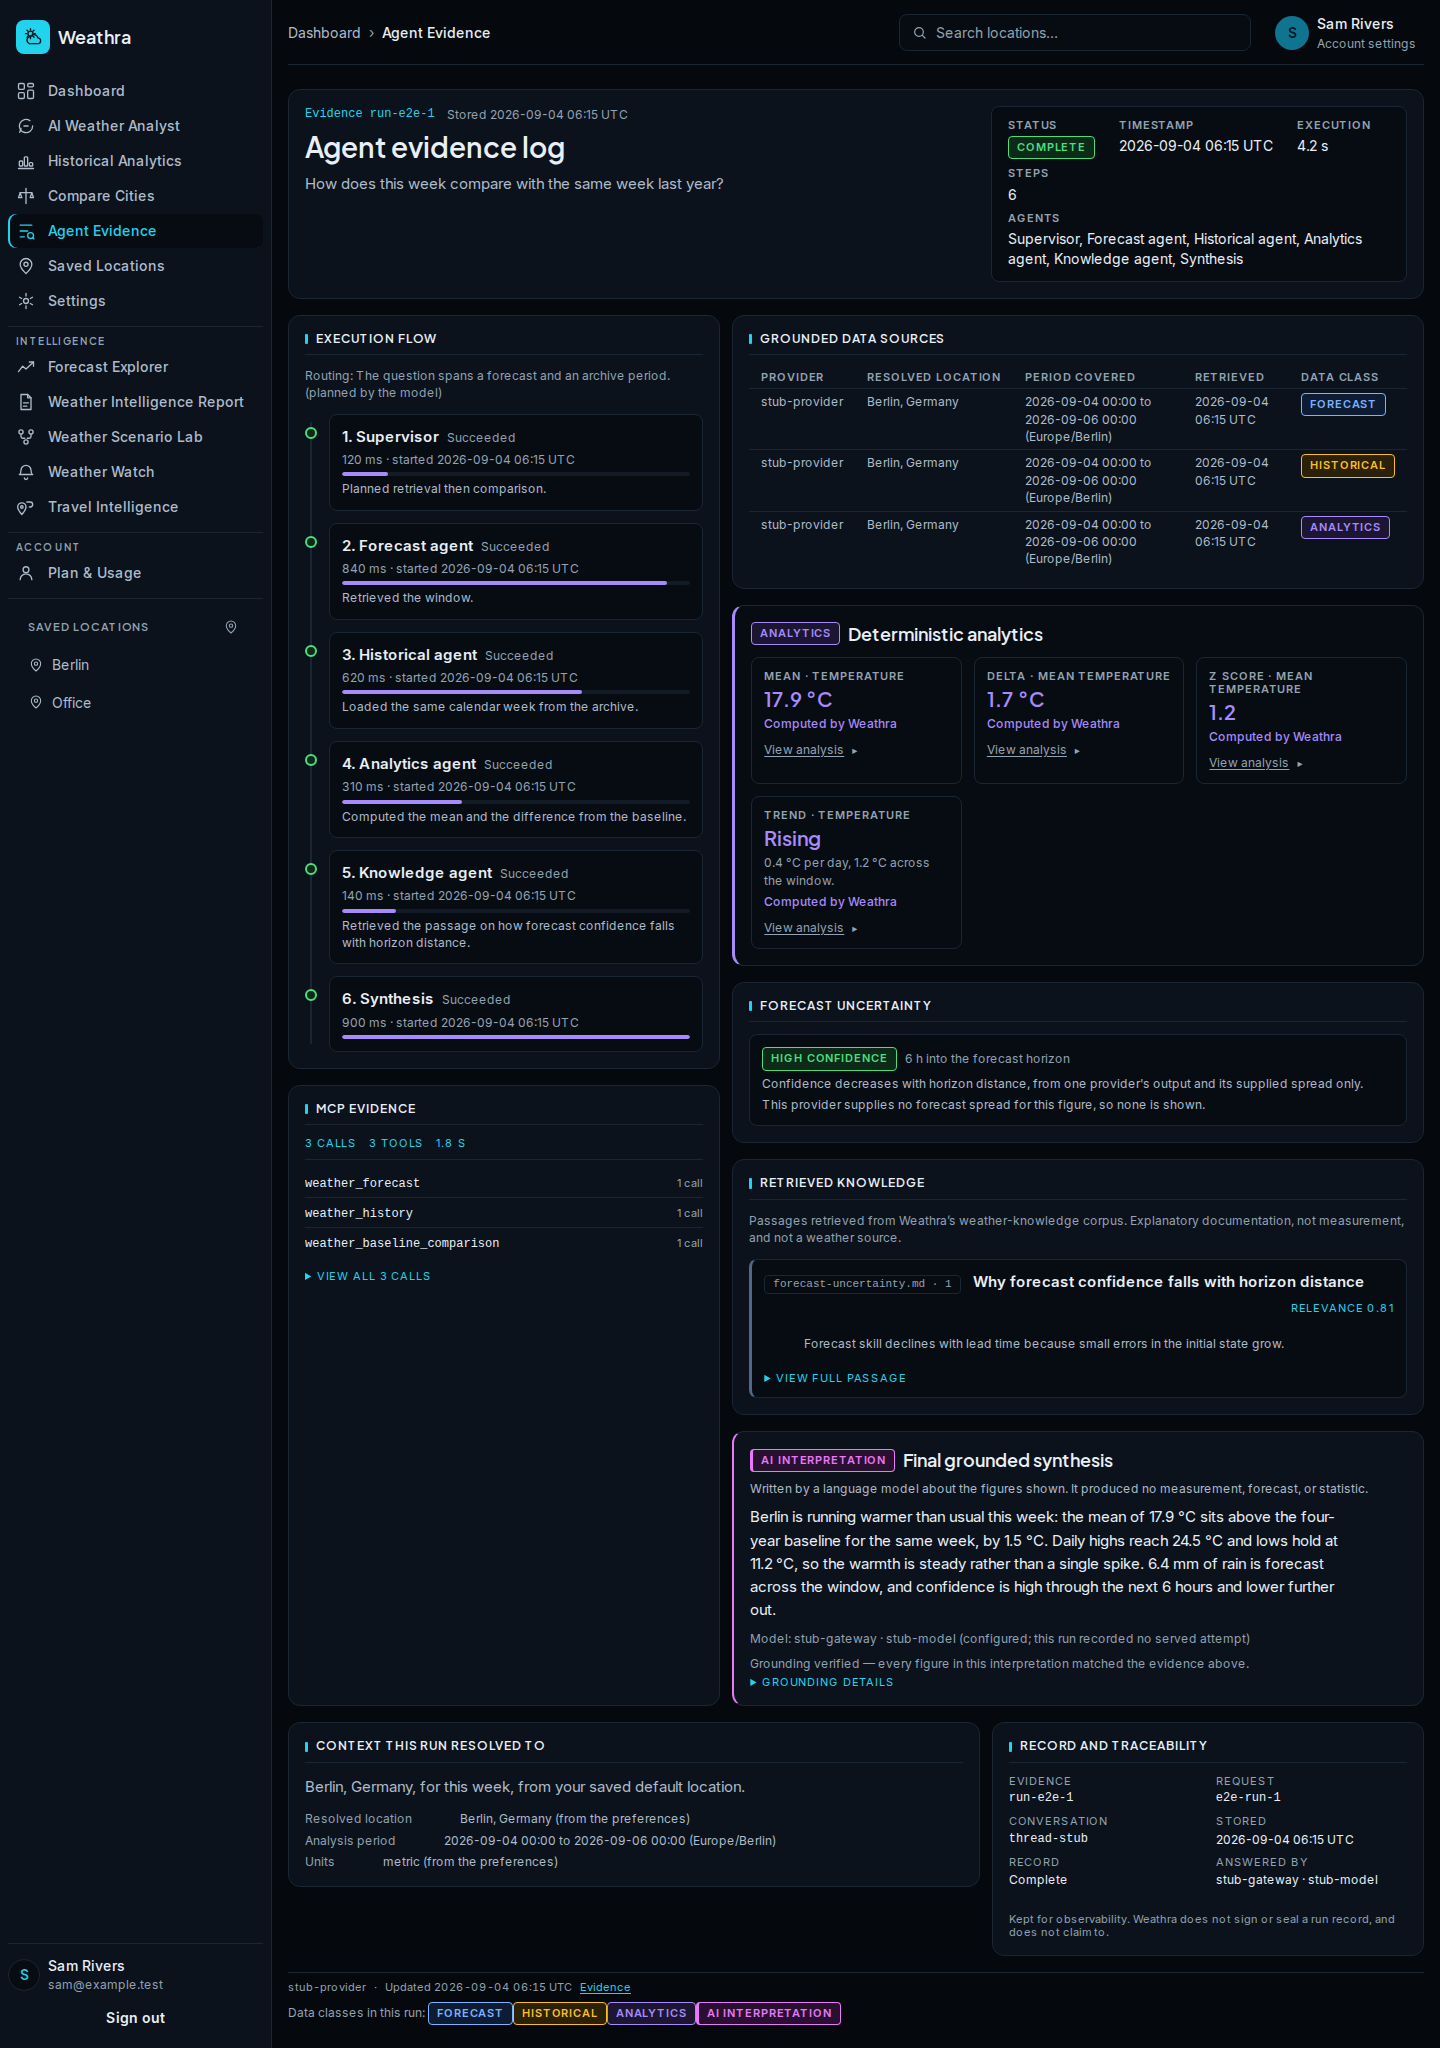
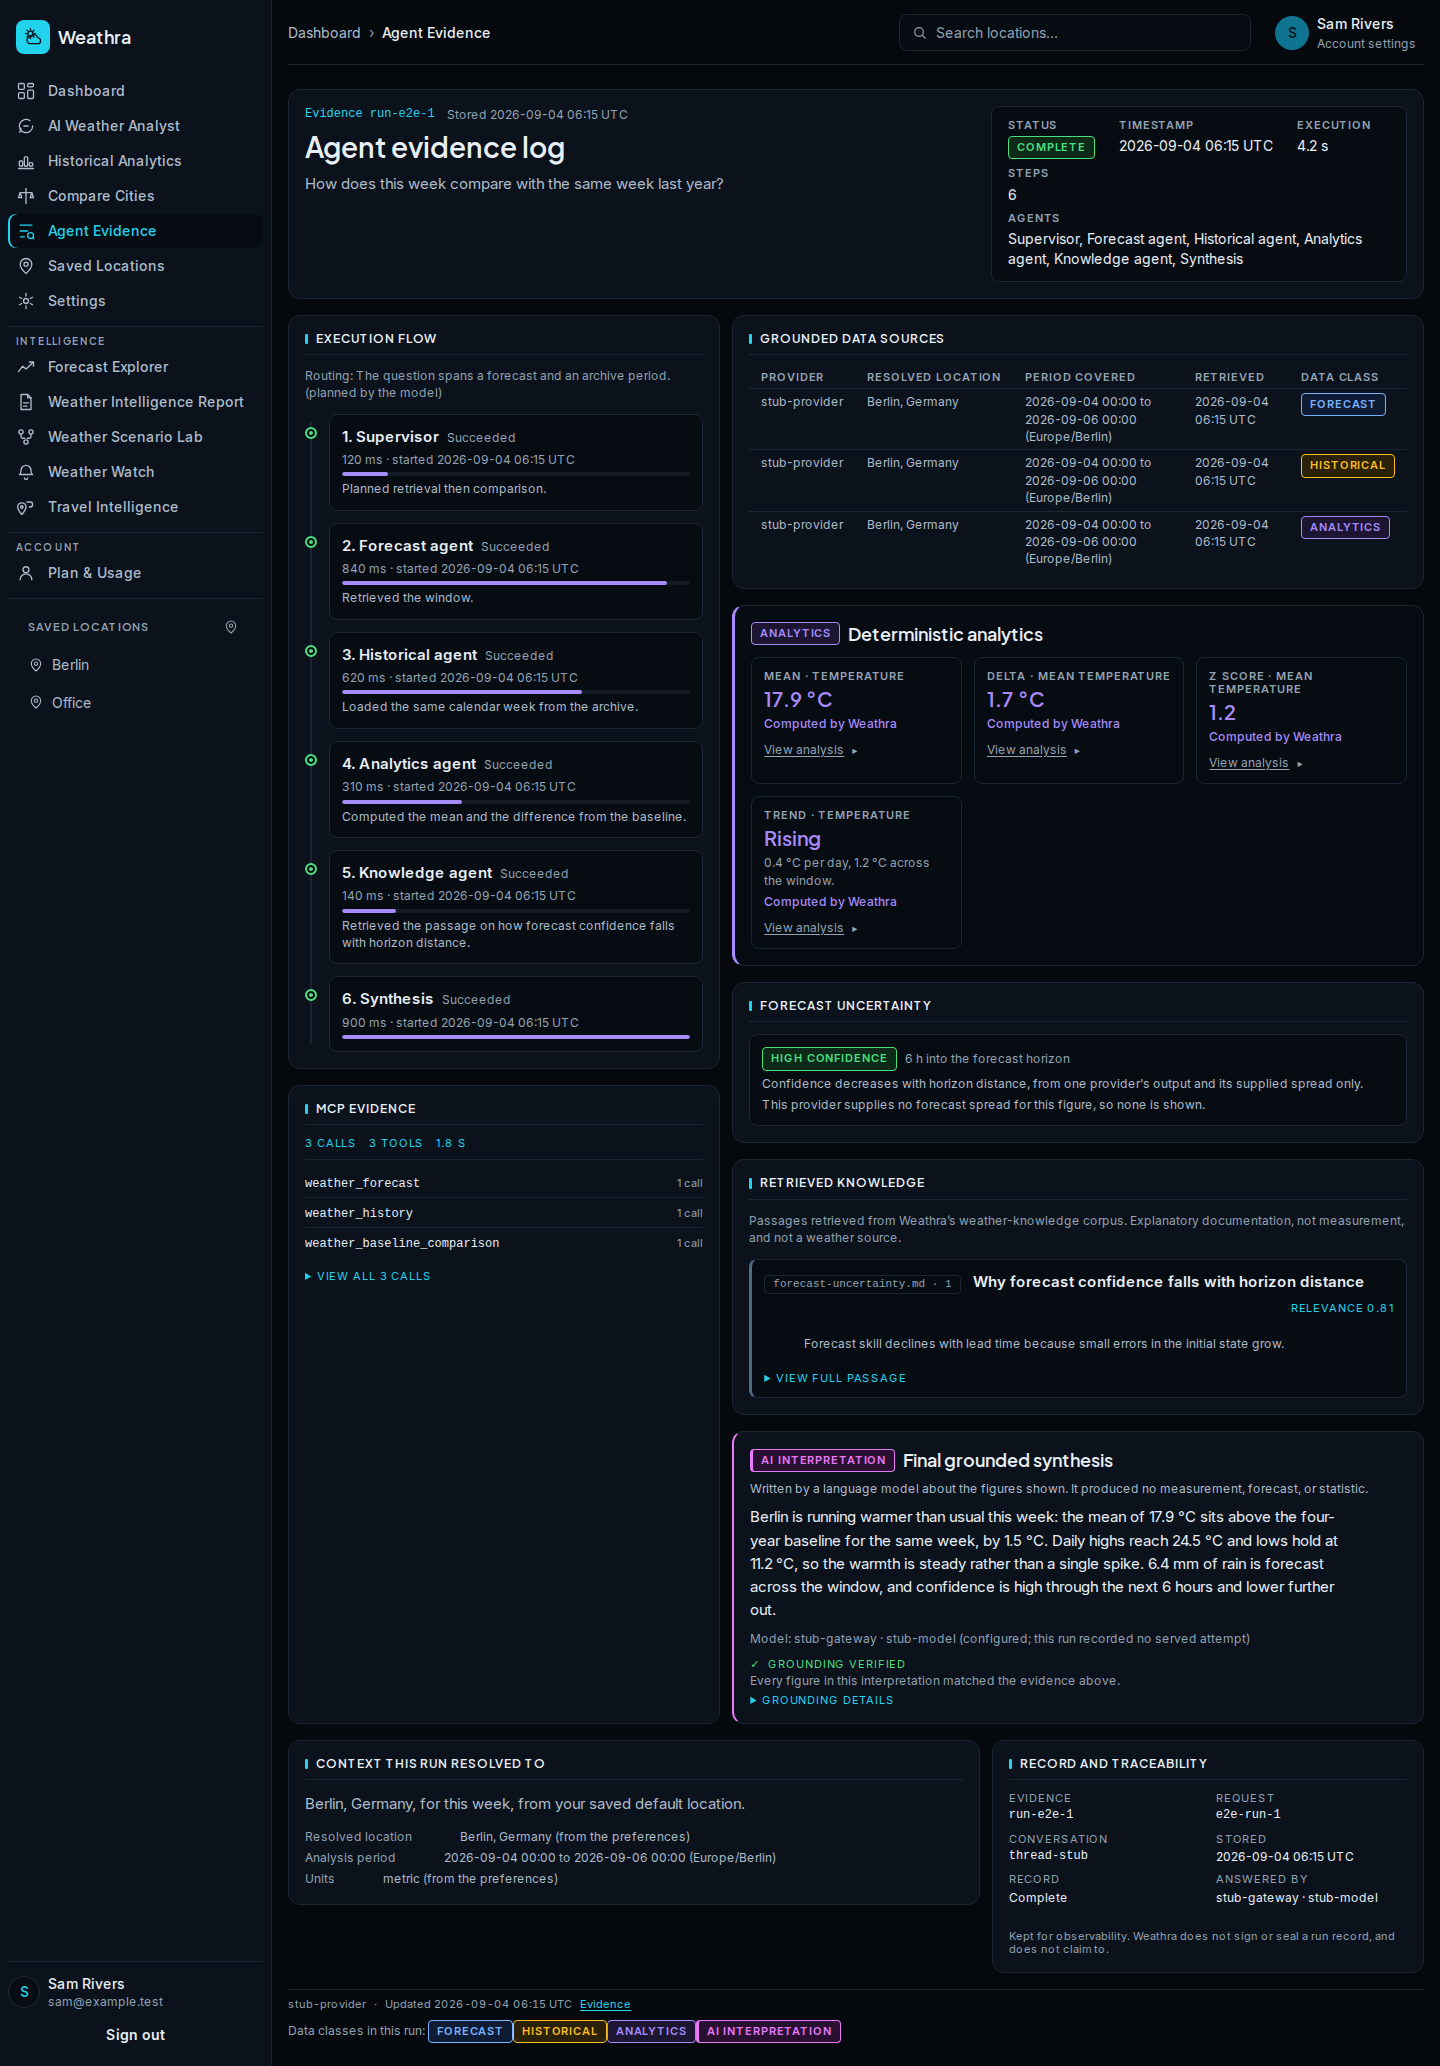
fix(evidence): the analytics band shows analysis, not the envelope around it
A correction to my own last commit, and it was a real defect.

The recovery I added walked a tool result's payload and printed every key it found, so a run that
computed through the tool boundary got a "Deterministic analytics" band reading `ok`, `unit`,
`period`, `measure`, `provider`, `data_class`, `points_supplied` — the schema of the envelope, not
the analysis inside it. Worse than the "no statistics" line it replaced, because it looked like
output.

The figures are nested one level down, under `results`, shaped exactly like the analytics list's
own entries — which is why the flattener rendered that key as "4 entries". The recovery now looks
for *statistics*: objects carrying a statistic, a measure and a value, at the payload's root or in
its nested list, and nothing else. They render through the same component the analytics list uses,
so a figure computed through a tool is presented exactly as one computed by the agent — label,
value, unit, method. Where no statistic is found the band shows the honest empty state again.

A test pins the case that caused this: a payload of pure envelope returns nothing.

My mistake was testing the helper against a hand-written payload with clean keys instead of the
shape the backend actually stores. The negative case is now the one that would have caught it.

Two completion cues while here: a succeeded stage fills its node, so a column of six answers "did
[…]

diff --git a/weathra/frontend/lib/evidence/record.ts b/weathra/frontend/lib/evidence/record.ts
@@ -396,49 +396,65 @@ export function readableProse(text: string): string {
   });
 }
 
-/** One figure recovered from a stored tool result, for display only. */
-export interface ToolFigure {
-  readonly key: string;
-  readonly label: string;
-  readonly value: string;
-  readonly tool: string;
-}
-
 /**
- * Computed figures the run recorded in a *tool result* rather than in its analytics list.
+ * Statistics the run recorded inside a *tool result* rather than in its analytics list.
  *
  * A run can reach the analytics kernel through the tool boundary — `weather_statistics`,
- * `weather_baseline_comparison` — and when it does, the numbers it computed come back inside that
+ * `weather_baseline_comparison` — and when it does, what it computed comes back nested in that
  * call's payload. `analytics_results` is filled by the analytics *agent*, so a run that computed
- * through tools alone left the deterministic band saying "no statistics" while its own tool results
- * held the means and differences the synthesis above quoted. That is the record contradicting
- * itself on one screen.
+ * through tools alone left the deterministic band reading "no statistics" while its own results
+ * held the means and differences the synthesis above quoted.
  *
- * This reads what is already stored and nothing else: no recomputation, no second request, no new
- * field. Used only when the analytics list is empty, and every figure names the tool it came from
- * so a reader can see it is a recovered payload rather than an agent's own analysis.
+ * **This looks for statistics, not for fields.** The first version of this walked the payload and
+ * printed every key it found, which turned the band into `ok`, `unit`, `period`, `provider`,
+ * `data_class` — the envelope, not the analysis. The figures are nested one level down, under
+ * `results`, shaped exactly like the analytics list's own entries. Only objects carrying a
+ * statistic, a measure and a value are taken, so an envelope can never reach the screen as a card;
+ * where none is found the caller shows the honest empty state instead.
+ *
+ * Nothing is recomputed and nothing is requested: this reads what the run already stored.
  */
-export function figuresFromTools(record: RunRecord): ToolFigure[] {
-  const figures: ToolFigure[] = [];
+export function statisticsFromTools(record: RunRecord): StatisticResult[] {
+  const found: StatisticResult[] = [];
 
   for (const activity of record.tools) {
     if (activity.result?.ok === false) continue;
-    // Only results the backend itself labelled as computed. A forecast payload is retrieved data,
-    // not a statistic, and presenting it as one would be this screen inventing a class.
+    // Only results the backend itself labelled as computed. A retrieval is data, not a statistic.
     if (activity.result?.data_class !== "computed_statistic") continue;
 
-    for (const field of activity.resultFields) {
-      if (field.value === NOT_REPORTED) continue;
-      figures.push({
-        key: `${activity.sequence}-${field.name}`,
-        label: field.name.replace(/_/g, " "),
-        value: field.value,
-        tool: activity.tool,
-      });
+    const payload = activity.result?.payload;
+    if (!isObject(payload)) continue;
+
+    for (const candidate of statisticCandidates(payload)) {
+      found.push(candidate);
     }
   }
 
-  return figures;
+  return found;
+}
+
+/** The statistic-shaped objects inside one payload, nested or at its root. */
+function statisticCandidates(payload: Record<string, unknown>): StatisticResult[] {
+  const nested = [payload.results, payload.statistics, payload.analytics_results]
+    .filter(Array.isArray)
+    .flat();
+  const roots = isStatisticShaped(payload) ? [payload] : [];
+  return [...roots, ...nested].filter(isStatisticShaped) as unknown as StatisticResult[];
+}
+
+/**
+ * Whether a stored object is a statistic rather than an envelope around one.
+ *
+ * Three fields, all of which the analytics layer puts on every result it produces. An envelope has
+ * a provider and a data class; a statistic has a measure and a value.
+ */
+function isStatisticShaped(value: unknown): value is Record<string, unknown> {
+  if (!isObject(value)) return false;
+  return (
+    typeof value.statistic === "string" &&
+    typeof value.measure === "string" &&
+    ("value" in value || "values" in value)
+  );
 }
 
 export function hasAnalytics(record: RunRecord): boolean {

diff --git a/weathra/frontend/lib/evidence/record.test.ts b/weathra/frontend/lib/evidence/record.test.ts
@@ -8,7 +8,7 @@
 
 import { describe, expect, it } from "vitest";
 
-import { figuresFromTools, readableProse, type RunRecord } from "./record";
+import { readableProse, statisticsFromTools, type RunRecord } from "./record";
 
 describe("prose a person can read", () => {
   it("trims the float tail a model repeats from its input", () => {
@@ -43,55 +43,92 @@ function recordWith(tools: unknown[]): RunRecord {
   return { tools } as unknown as RunRecord;
 }
 
-describe("figures a run recorded through its tools", () => {
-  it("recovers what a computed-statistic result returned", () => {
-    const figures = figuresFromTools(
+describe("statistics a run recorded through its tools", () => {
+  it("recovers the figures nested in a computed-statistic payload", () => {
+    const found = statisticsFromTools(
       recordWith([
         {
           sequence: 3,
           tool: "weather_statistics",
-          result: { ok: true, data_class: "computed_statistic" },
-          resultFields: [
-            { name: "mean_temperature", value: "21.5" },
-            { name: "difference", value: "2.2" },
-          ],
+          result: {
+            ok: true,
+            data_class: "computed_statistic",
+            payload: {
+              // The envelope the band must never print as cards.
+              ok: true,
+              provider: "open-meteo",
+              unit: "°C",
+              measure: "temperature_mean",
+              points_supplied: 7,
+              results: [
+                { statistic: "mean", measure: "temperature_mean", value: 21.5, unit: "°C" },
+                { statistic: "delta", measure: "temperature_mean", value: 2.2, unit: "°C" },
+              ],
+            },
+          },
         },
       ]),
     );
 
-    expect(figures.map((figure) => figure.label)).toEqual(["mean temperature", "difference"]);
-    expect(figures[0]?.value).toBe("21.5");
-    // Every figure names where it came from, so a reader sees a recovered payload for what it is.
-    expect(figures[0]?.tool).toBe("weather_statistics");
+    expect(found.map((result) => result.statistic)).toEqual(["mean", "delta"]);
+    expect(found[0]?.value).toBe(21.5);
+  });
+
+  it("never returns the envelope around the figures", () => {
+    /*
+     * The defect this replaced: walking the payload and printing every key turned the analytics
+     * band into `ok`, `unit`, `period`, `provider`, `data_class` — schema, not analysis.
+     */
+    const found = statisticsFromTools(
+      recordWith([
+        {
+          sequence: 1,
+          tool: "weather_statistics",
+          result: {
+            ok: true,
+            data_class: "computed_statistic",
+            payload: { ok: true, provider: "open-meteo", unit: "°C", points_supplied: 7 },
+          },
+        },
+      ]),
+    );
+
+    expect(found).toEqual([]);
   });
 
   it("ignores a retrieval, because retrieved data is not a statistic", () => {
-    const figures = figuresFromTools(
+    const found = statisticsFromTools(
       recordWith([
         {
           sequence: 1,
           tool: "weather_forecast",
-          result: { ok: true, data_class: "forecast" },
-          resultFields: [{ name: "hourly", value: "24 entries" }],
+          result: {
+            ok: true,
+            data_class: "forecast",
+            payload: { results: [{ statistic: "mean", measure: "temperature", value: 1 }] },
+          },
         },
       ]),
     );
 
-    expect(figures).toEqual([]);
+    expect(found).toEqual([]);
   });
 
-  it("ignores a failed call, which returned no figure to recover", () => {
-    const figures = figuresFromTools(
+  it("ignores a failed call, which computed nothing to recover", () => {
+    const found = statisticsFromTools(
       recordWith([
         {
           sequence: 2,
           tool: "weather_statistics",
-          result: { ok: false, data_class: "computed_statistic" },
-          resultFields: [{ name: "mean", value: "1" }],
+          result: {
+            ok: false,
+            data_class: "computed_statistic",
+            payload: { results: [{ statistic: "mean", measure: "temperature_mean", value: 1 }] },
+          },
         },
       ]),
     );
 
-    expect(figures).toEqual([]);
+    expect(found).toEqual([]);
   });
 });

diff --git a/weathra/frontend/components/evidence/sections.tsx b/weathra/frontend/components/evidence/sections.tsx
@@ -57,7 +57,7 @@ import { agentLabel, confidenceOf, horizonHoursOf, ROUTING_SOURCE_LABELS } from 
 import { measureLabel } from "@/lib/dashboard/briefing";
 import { dataClassFor } from "@/lib/design/data-class";
 import {
-  figuresFromTools,
+  statisticsFromTools,
   formatDurationMs,
   readableProse,
   hasAnalytics,
@@ -65,7 +65,6 @@ import {
   type EvidenceField,
   type RunRecord,
   type ToolActivity,
-  type ToolFigure,
 } from "@/lib/evidence/record";
 import { formatStatistic, unavailableReason } from "@/lib/historical/analysis";
 import { inferenceMetadataFrom } from "@/lib/inference/served";
@@ -623,23 +622,24 @@ export function DeterministicAnalytics({ record }: { readonly record: RunRecord 
    * reading one the record already holds, and it stops the band from saying "no statistics" on a
    * screen whose synthesis above quotes them.
    */
-  const recovered = hasAnalytics(record) ? [] : figuresFromTools(record);
+  const recovered = hasAnalytics(record) ? [] : statisticsFromTools(record);
 
   if (!hasAnalytics(record) && recovered.length > 0) {
     return (
       <div data-evidence-section="analytics">
         <ProvenanceSection dataClass="analytics" title="Deterministic analytics">
+          {/*
+            Rendered by the same component the analytics list uses, so a figure the run recorded
+            through a tool is presented exactly as one recorded by the agent — label, value, unit
+            and the method that produced it. The band never shows a payload's envelope.
+          */}
           <ul className={styles.figures}>
-            {recovered.map((figure: ToolFigure) => (
-              <li className={styles.figure} key={figure.key} data-statistic={figure.label}>
-                <span className={styles.figureLabel}>{figure.label}</span>
-                <span className={styles.figureValue}>{figure.value}</span>
-                <span className={styles.note}>Returned by {figure.tool}</span>
-              </li>
+            {recovered.map((result, index) => (
+              <StatisticFigure key={`${result.statistic}-${result.measure}-${index}`} result={result} />
             ))}
           </ul>
           <p className={styles.note}>
-            Recovered from this run&rsquo;s own tool results, which is where it recorded them.
+            Computed by Weathra during this run and recorded in its tool results.
           </p>
         </ProvenanceSection>
       </div>
@@ -932,9 +932,9 @@ export function FinalSynthesis({ record }: { readonly record: RunRecord }): Reac
               <p className={styles.note}>This run recorded no grounding report.</p>
             ) : grounding.verified ? (
               <>
+                <p className={styles.groundingVerified}>Grounding verified</p>
                 <p className={styles.note}>
-                  Grounding verified — every figure in this interpretation matched the evidence
-                  above.
+                  Every figure in this interpretation matched the evidence above.
                 </p>
                 <details className={styles.groundingDetail}>
                   <summary>Grounding details</summary>

diff --git a/weathra/frontend/components/evidence/evidence.module.css b/weathra/frontend/components/evidence/evidence.module.css
@@ -1396,3 +1396,52 @@
   border-bottom: 1px solid var(--color-border-subtle);
   color: var(--color-accent);
 }
+
+/*
+ * A completed stage reads as completed at a glance.
+ *
+ * "Succeeded" in text beside the stage name is accurate and slow: a reader scanning six stages for
+ * a failure was reading six words. The node carries a tick, so the column answers "did all of this
+ * work" before any of it is read — and a failure still carries its own mark and its red border, so
+ * the one case that matters is never told by absence alone.
+ */
+.step[data-status="succeeded"]::before {
+  content: "";
+  background: var(--color-status-ok);
+  border-color: var(--color-status-ok);
+  box-shadow: inset 0 0 0 2px var(--color-surface-base);
+}
+
+.step[data-status="failed"]::before {
+  background: var(--color-status-error);
+  border-color: var(--color-status-error);
+  box-shadow: inset 0 0 0 2px var(--color-surface-base);
+}
+
+/*
+ * The synthesis states that it is grounded, and shows it.
+ *
+ * The verdict was a muted line under the conclusion, indistinguishable in weight from the model
+ * name beside it — so a run whose every figure checked out looked the same as one whose grounding
+ * was never reported.
+ */
+.screen [data-interpretation="true"] .note:first-of-type {
+  color: var(--color-text-secondary);
+}
+
+.groundingVerified {
+  display: inline-flex;
+  align-items: center;
+  gap: var(--space-2);
+  font-size: var(--type-label-size);
+  line-height: var(--type-label-line);
+  letter-spacing: var(--type-label-tracking);
+  text-transform: uppercase;
+  color: var(--color-status-ok);
+}
+
+.groundingVerified::before {
+  content: "✓";
+  font-size: 1em;
+  line-height: 1;
+}
